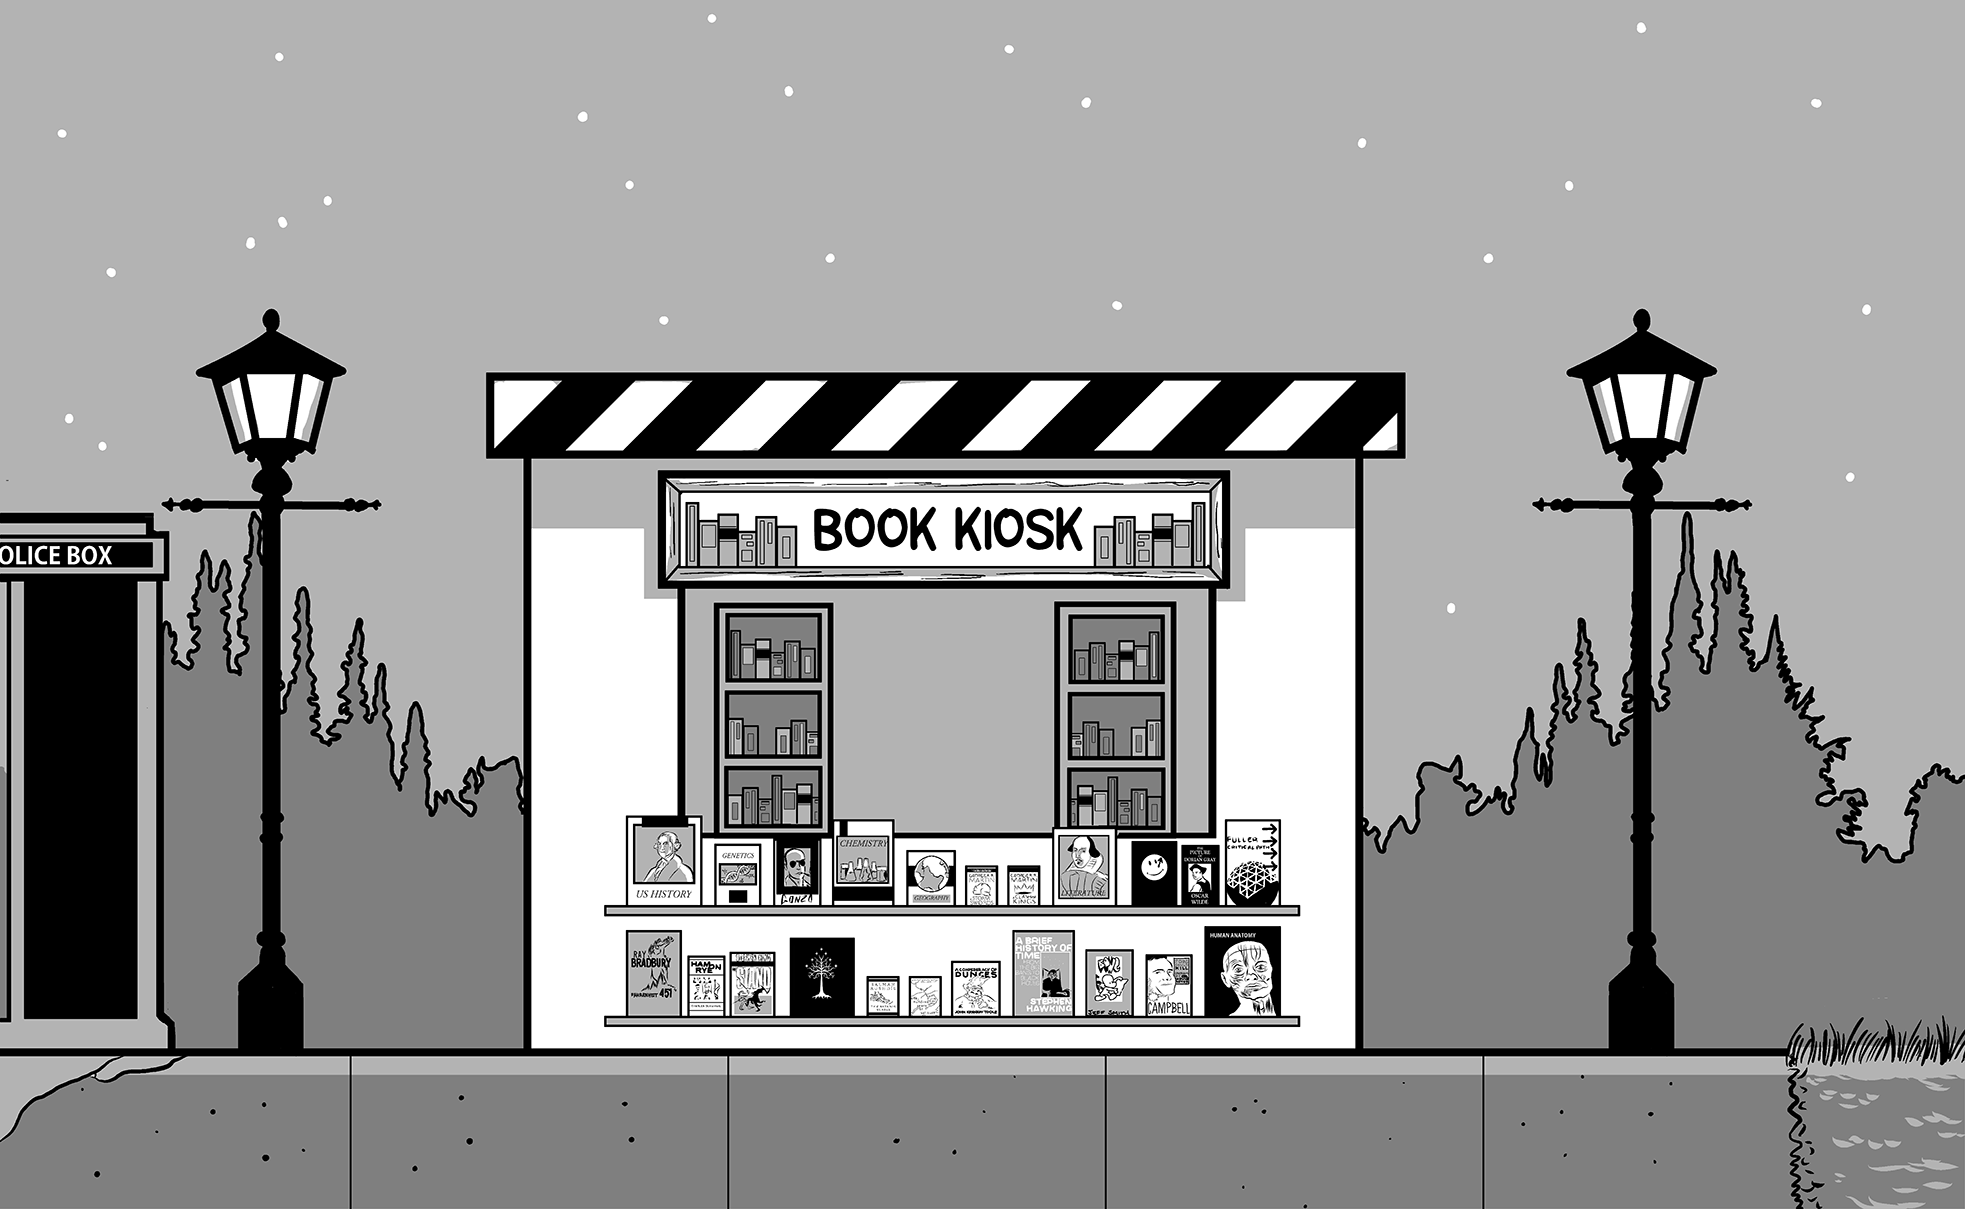
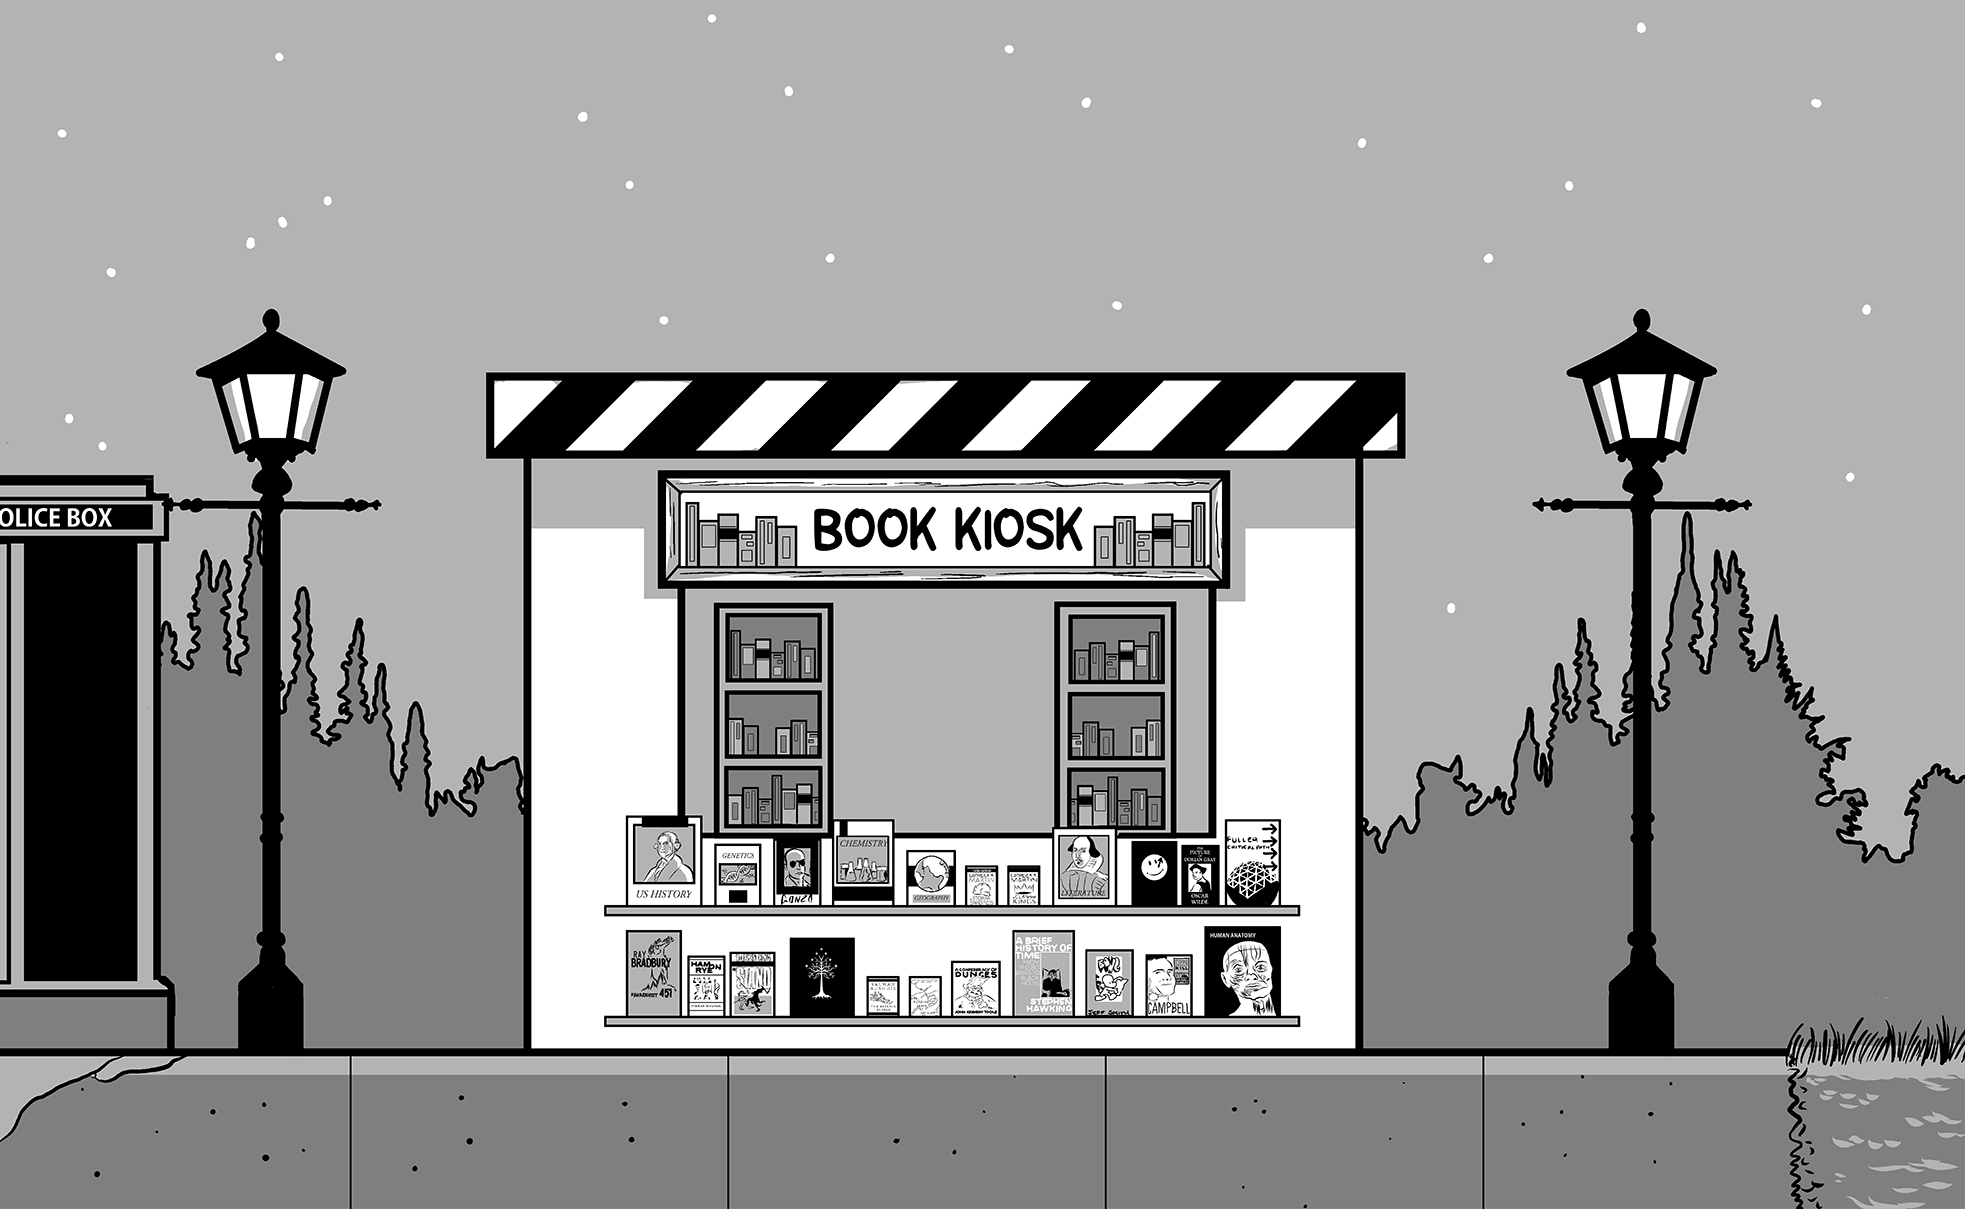
Map File with the Floors
Updated the map file to have the proper floors that correspond to the
floor in the backgrounds

Changed region(s): [[0.0, 0.3672, 0.0931, 0.8875]]

diff --git a/displayplatformer.py b/displayplatformer.py
@@ -103,11 +103,11 @@ class ClientPlatformer(NetworkGame):
     :type data: dict"""
     self.clear_entire_screen()
     if True:  # skip the fancy loading animation for now...the pi's can't handle it :(
-      for obj_id, game_obj in self.game_objects.items():
-        if isinstance(game_obj, wd.SimpleScenery):
-          game_obj.draw(self.window)
-          game_obj.dirt_sprite = False  # DOn't draw again unless it moves
-      pygame.display.flip()
+      # for obj_id, game_obj in self.game_objects.items():
+      #   if isinstance(game_obj, wd.SimpleScenery):
+      #     game_obj.draw(self.window)
+      #     game_obj.dirt_sprite = False  # DOn't draw again unless it moves
+      # pygame.display.flip()
       return {'state':'play'} 
     obj_on_screen = [game_obj for game_obj in self.game_objects.values() if game_obj.render]
     self.engine.load_animation(obj_on_screen, self.background, self.window)

diff --git a/world.py b/world.py
@@ -9,7 +9,7 @@ DATA_STAGES = {"raw": 1, "crunched": 2, "paper": 3}
 ASSET_FOLDER = "assets/"
 GRAVITY_VELOCITY = 4  # lets cheat for now
 FLOOR_Y = 580
-PLAYER_SPEED = 10
+PLAYER_SPEED = 20
 PLAYER_THROW_SPEED = eng.Vector(20, -5)
 FOLLOWER_SPEED = PLAYER_SPEED - 3  # just slower than the players
 PATROL_SPEED = 4  # just slower than the players

diff --git a/render_node.py b/render_node.py
@@ -18,6 +18,7 @@ if network_settings['localhost'] == "True":
   json_file.seek(0)  # lazy pass to game.py
   data = {"localhost": "True", "x":str(xindx), "y":str(yindx)}
   json.dump(data, json_file)
+  json_file.close()
   my_ip_address = 'localhost'
 
 # TODO: Figure out tile location based on hostname
